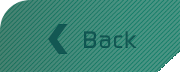
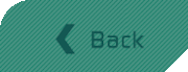
Add back button animation

diff --git a/graphics.js b/graphics.js
@@ -24,6 +24,8 @@ class Display {
             // general
             background: 'assets/background.png',
             backbutton: 'assets/buttons/backbutton.png',
+            backbutton_pressed: 'assets/buttons/backbutton_pressed.png',
+            backbutton_hover: 'assets/buttons/backbutton_hover.png',
 
             // colonization phase; travel
             shuttle: 'assets/shuttle-icon-centered@3x.png',
@@ -405,10 +407,11 @@ class Display {
         	this.buttons['first_round'].image(images.first_round);
         	this.buttons['next_round'].image(images.next_round);
         	this.buttons['init_shuttle'].image(images.init_shuttle);
+            this.buttons['backbutton'].image(images.backbutton);
         	this.layer.draw();
         });
 
-        ['reveal_start', 'first_round', 'init_shuttle', 'next_round'].forEach((b) => {
+        ['reveal_start', 'first_round', 'init_shuttle', 'next_round', 'backbutton'].forEach((b) => {
             this.buttons[b] = new Konva.Image({
                 image: images[b],
                 x: (this.width - images[b].width * 1.5) / 2,
@@ -434,6 +437,13 @@ class Display {
         this.buttons['init_shuttle'].y(1340);
         this.buttons['next_round'].y(1355);
 
+        //XXX: back button is still png with proper size, so we undo the 1.5x
+        //     increase here.
+        this.buttons['backbutton'].x(0);
+        this.buttons['backbutton'].y(0);
+        this.buttons['backbutton'].width(images['backbutton'].width);
+        this.buttons['backbutton'].height(images['backbutton'].height);
+
         this.buttons['reveal_start'].on('mouseup touchend', () => {
         	this.revealStartPosition();
         });
@@ -450,15 +460,6 @@ class Display {
         });
         this.buttons['init_shuttle'].on('mouseup touchend', () => {
         	this.lacerda.currentPhase = 'SHUTTLE';
-            this.renderScreen();
-        });
-
-        // BACK
-        this.buttons['backbutton'] = new Konva.Image({
-            image: images.backbutton,
-        });
-        this.buttons['backbutton'].on('click tap', () => {
-            this.lacerda.prevState();
             this.renderScreen();
         });
     }
